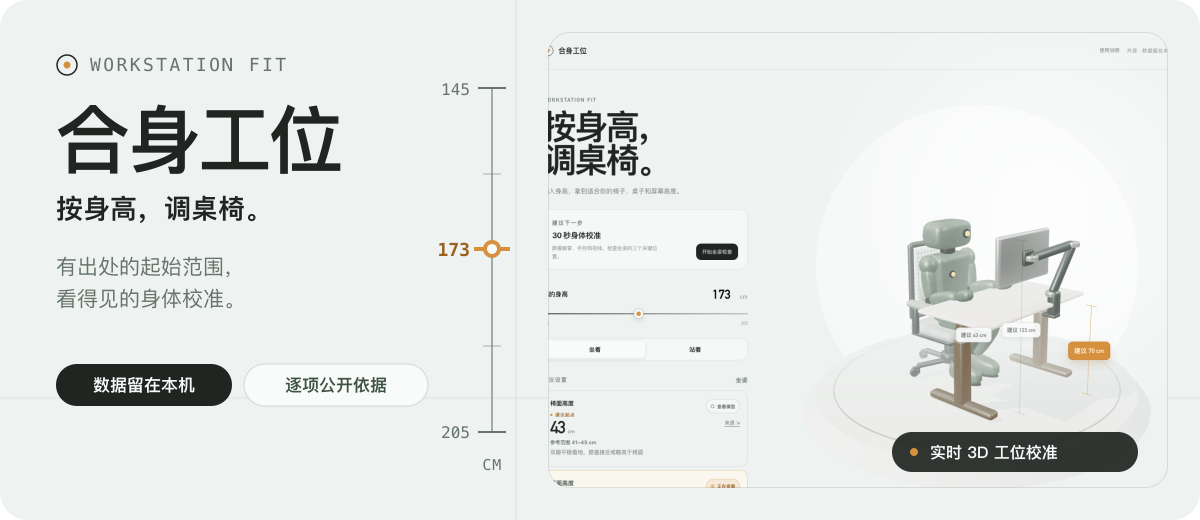
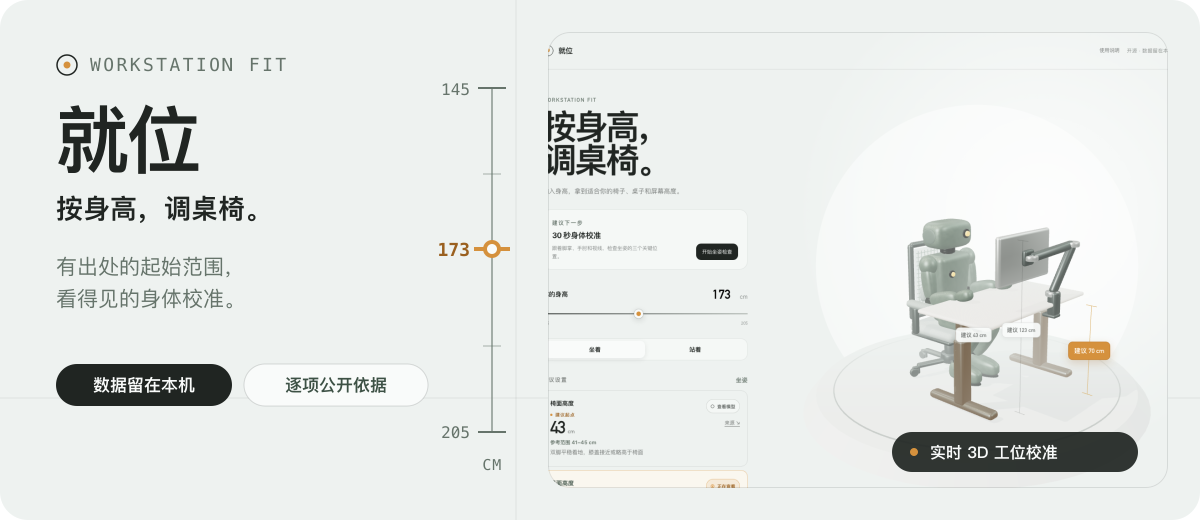
Rename Chinese product to 就位

Changed region(s): [[0.0308, 0.1846, 0.3083, 0.3385], [0.4625, 0.0923, 0.4933, 0.1231]]

diff --git a/tests/browser/page.spec.ts b/tests/browser/page.spec.ts
@@ -14,6 +14,8 @@ test('presents the independent calculator before evidence and related content', 
   await expect(sections.nth(4)).toHaveAttribute('id', 'independent-footer');
 
   await expect(page.getByText('西昊', { exact: false })).toHaveCount(0);
+  await expect(page).toHaveTitle('就位｜找到适合你的桌椅与显示器高度');
+  await expect(page.getByRole('link', { name: '就位首页' })).toBeVisible();
   await expect(page.getByRole('heading', { level: 1, name: '按身高，调桌椅。' })).toBeVisible();
   await expect(page.getByText('输入身高，拿到适合你的椅子、桌子和屏幕高度。')).toBeVisible();
   await expect(page.getByText('实时联动', { exact: false })).toHaveCount(0);

diff --git a/src/lib/content.ts b/src/lib/content.ts
@@ -41,7 +41,7 @@ export const relatedEpisode = {
 
 export const relatedLinks = [
   {
-    label: '合身工位 · GitHub',
+    label: '就位 · GitHub',
     description: '项目仓库目前仍在整理中。公开后，可以在这里查看源码、计算方法和后续更新。',
     icon: 'github',
     url: 'https://github.com/BarryBarrywu/workstation-fit',

diff --git a/README.md b/README.md
@@ -5,7 +5,7 @@
 </p>
 
 <p align="center">
-  <img src="./assets/readme/hero.png" width="100%" alt="合身工位：输入身高，获得有出处的桌椅与显示器设置起始范围，并通过三维场景完成身体校准">
+  <img src="./assets/readme/hero.png" width="100%" alt="就位：输入身高，获得有出处的桌椅与显示器设置起始范围，并通过三维场景完成身体校准">
 </p>
 
 <p align="center">
@@ -18,19 +18,19 @@
   <a href="#许可证">许可证</a>
 </p>
 
-合身工位是一个开源的人体工学工位计算器。输入身高，就能查看椅面、坐站桌、显示器顶部与观看距离的建议起始范围；再对照脚掌、手肘和视线，把数值调整成真正适合自己的工位。
+就位是一个开源的人体工学桌椅与显示器高度工具。输入身高，就能查看椅面、坐站桌、显示器顶部与观看距离的建议起始范围；再对照脚掌、手肘和视线，把数值调整成真正适合自己的设置。
 
 所有计算都在浏览器中完成。身高、使用说明状态和校准进度只保存在当前设备，不会上传到服务器。
 
 <p align="center">
-  <img src="./assets/readme/product-overview.png" width="100%" alt="合身工位真实界面：左侧显示身高输入、坐站切换和建议范围，右侧显示可旋转的三维人体工位模型">
+  <img src="./assets/readme/product-overview.png" width="100%" alt="就位真实界面：左侧显示身高输入、坐站切换和建议范围，右侧显示可旋转的三维人体工位模型">
 </p>
 
 ## 它解决什么问题
 
 很多工位计算器会给出一个看起来非常精确的数字，却不说明来源，也不提醒你每个人的腿长、躯干、手臂和视线比例都不同。
 
-合身工位把结果拆成三个层次：
+就位把结果拆成三个层次：
 
 - **建议起点**：先给出一个容易落地的椅子、桌面和显示器设置值。
 - **参考范围**：保留合理调整空间，不把单一数字包装成“最佳高度”。
